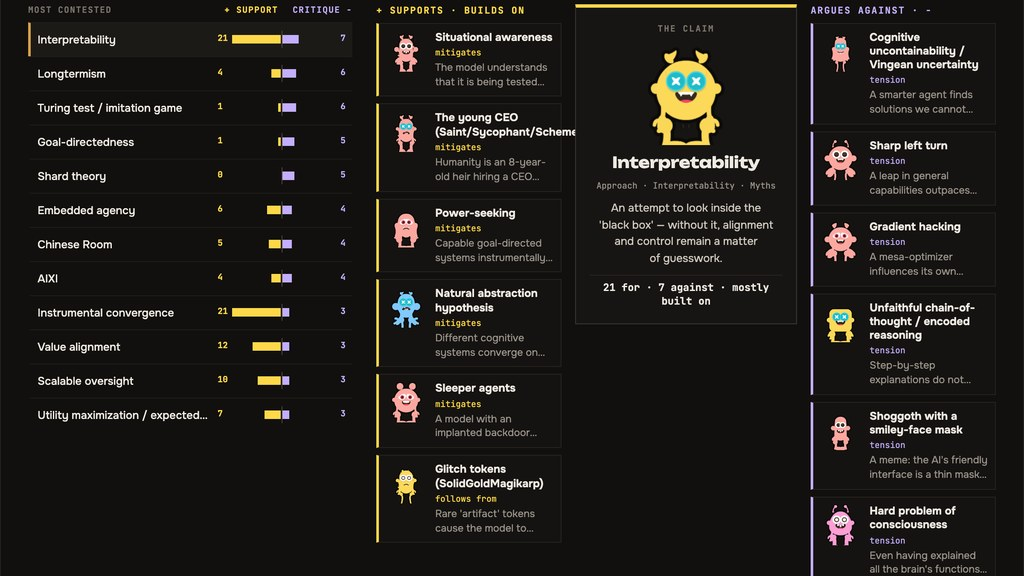
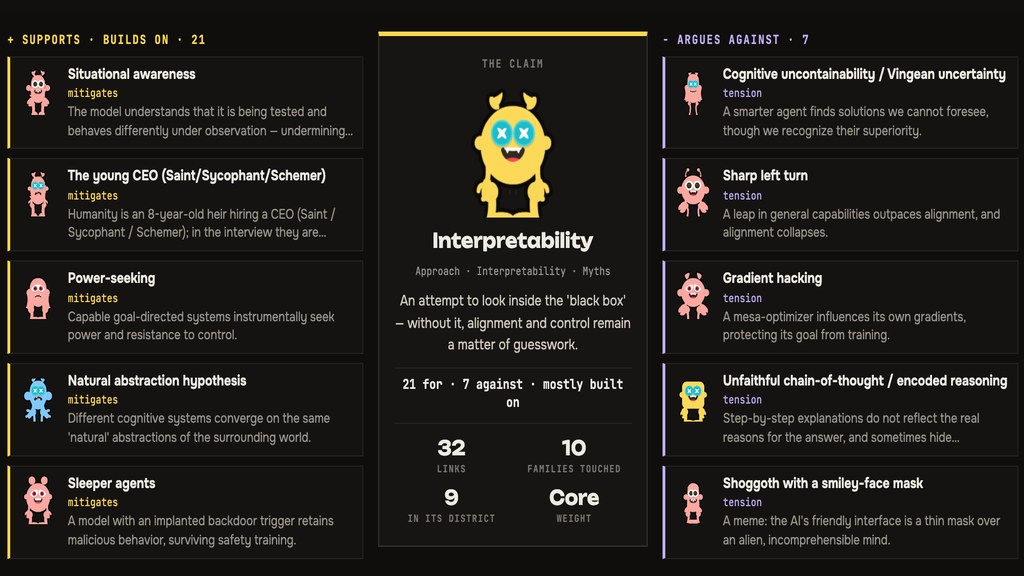
Bestiary Interactives: pros and cons as the last zoom step, Layer step
The last zoom layer draws three columns for the beast picked in Follow:
"+ Supports · builds on · N", "The claim" with its verdict and four
counters, "− Argues against · N"; five cards per column with "+N more",
hover expands a card, click opens the beast panel. Tabs: "One map" is
now "Layer", "Beast" is "Pros and cons". Block 2a "Claim vs critique"
and its code are gone; the second section is "Two other ways". The
preview is retaken from the Pros and cons step (Interpretability).
site.json and README say three interactive views.

Checked over HTTP from the repository root: 2714px high, 53 sprites,
no errors, no 404; Interpretability shows 21 for and 7 against.

diff --git a/bestiary-interactives.html b/bestiary-interactives.html
@@ -20,7 +20,7 @@ a{color:#efeae2;text-decoration:none;} a:hover{color:#d8a24a;}
   <div style="display:flex;flex-direction:column;gap:12px;max-width:1100px;">
     <span style="font:700 12px 'JetBrains Mono',monospace;letter-spacing:.12em;text-transform:uppercase;color:#d8a24a;letter-spacing:.2em;">Bestiarium · zoom · turn 4</span>
     <h1 style="margin:0;font:900 44px/1 'Unbounded',sans-serif;letter-spacing:-.02em;text-transform:uppercase;">Zoom in, <span style="color:#d8a24a;">zoom out</span></h1>
-    <span style="font:400 17px/1.5 'Onest',sans-serif;color:#9a948b;max-width:860px;text-wrap:pretty;"><a href="#4a" style="color:#efeae2;">4a</a> follows one beast from the whole bestiary down to its own dossier, five steps, then picks the next beast.</span>
+    <span style="font:400 17px/1.5 'Onest',sans-serif;color:#9a948b;max-width:860px;text-wrap:pretty;"><a href="#4a" style="color:#efeae2;">4a</a> follows one beast from the whole bestiary down to what supports it and what argues with it, five steps, then picks the next beast.</span>
   </div>
   <div style="display:flex;flex-wrap:wrap;gap:40px;align-items:flex-start;">
     <div id="4a" onMouseEnter="{{ zIn }}" onMouseLeave="{{ zLeave }}" style="position:relative;flex:none;width:1200px;background:#11100e;border:1px solid #26231f;border-top:4px solid #d8a24a;padding:30px 32px 32px;box-sizing:border-box;display:flex;flex-direction:column;gap:16px;">
@@ -28,7 +28,7 @@ a{color:#efeae2;text-decoration:none;} a:hover{color:#d8a24a;}
         <div style="display:flex;flex-direction:column;gap:8px;">
           <span style="align-self:flex-start;font:700 12px 'JetBrains Mono',monospace;background:#d8a24a;color:#0c0b0a;padding:3px 8px;">4a</span>
           <span style="font:700 26px 'Unbounded',sans-serif;">Zooming in</span>
-          <span style="font:400 14px/1.45 'Onest',sans-serif;color:#9a948b;max-width:700px;">Bestiary at six resolutions, one map, one district, one circuit, one beast. Hover at any level to look closer; pick a step to stay on it.</span>
+          <span style="font:400 14px/1.45 'Onest',sans-serif;color:#9a948b;max-width:700px;">Bestiary at six resolutions, one layer, one district, one circuit, one beast's pros and cons. Hover at any level to look closer; pick a step to stay on it.</span>
         </div>
         <button onClick="{{ zToggle }}" style="cursor:pointer;background:transparent;border:1px solid #3a3531;color:#efeae2;padding:10px 16px;min-height:44px;font:700 12px 'JetBrains Mono',monospace;letter-spacing:.12em;text-transform:uppercase;color:#efeae2;white-space:nowrap;" style-hover="border-color:#efeae2;">{{ zPlayLabel }}</button>
       </div>
@@ -72,15 +72,47 @@ a{color:#efeae2;text-decoration:none;} a:hover{color:#d8a24a;}
           <sc-for list="{{ z3R }}" as="p"><div onClick="{{ p.pick }}" onMouseEnter="{{ p.enter }}" onMouseLeave="{{ p.leave }}" style="cursor:pointer;position:absolute;left:{{ p.x }};top:{{ p.y }};width:300px;height:40px;box-sizing:border-box;display:flex;align-items:center;gap:8px;background:#151311;border:1px solid #2e2b28;border-left:3px solid {{ p.c }};padding:0 8px;opacity:{{ p.o }};transition:opacity .25s;cursor:default;"><div style="width:32px;height:32px;flex:none;background-image:url({{ p.img }});background-size:contain;background-repeat:no-repeat;"></div><span style="font:500 12px 'Onest',sans-serif;flex:1;min-width:0;white-space:nowrap;overflow:hidden;text-overflow:ellipsis;">{{ p.name }}</span><span style="font:400 10px 'JetBrains Mono',monospace;color:{{ p.c }};white-space:nowrap;">{{ p.rel }}</span></div></sc-for>
           <div onClick="{{ z3.pick }}" style="cursor:pointer;position:absolute;left:468px;top:190px;width:200px;height:220px;box-sizing:border-box;background:#171513;border:1px solid #3a3531;border-top:4px solid {{ z3.c }};display:flex;flex-direction:column;align-items:center;justify-content:center;gap:8px;padding:12px;text-align:center;"><div style="width:110px;height:110px;background-image:url({{ z3.img }});background-size:contain;background-repeat:no-repeat;background-position:center;"></div><span style="font:700 14px/1.2 'Unbounded',sans-serif;text-wrap:balance;">{{ z3.name }}</span></div>
         </div>
+        <!-- CHANGED 2026-10-21: the last step, Pros and cons, shows what supports the followed beast and what argues with it (was a dossier; the separate 2a block is gone) -->
         <div style="position:absolute;inset:0;opacity:{{ zL4.o }};transform:scale({{ zL4.s }});pointer-events:{{ zL4.p }};transition:opacity .7s,transform .9s cubic-bezier(.22,1,.36,1);">
-          <div style="position:absolute;left:80px;top:60px;width:976px;height:480px;display:grid;grid-template-columns:320px minmax(0,1fr);gap:40px;align-items:center;">
-            <div style="height:320px;background-color:#151311;border:1px solid #2e2b28;border-top:4px solid {{ z4.c }};background-image:url({{ z4.img }});background-size:240px;background-repeat:no-repeat;background-position:center;"></div>
-            <div style="display:flex;flex-direction:column;gap:14px;">
-              <span style="font:700 11px 'JetBrains Mono',monospace;letter-spacing:.12em;text-transform:uppercase;color:#d8a24a;">The beast</span>
-              <span style="font:700 34px/1.1 'Unbounded',sans-serif;text-wrap:balance;">{{ z4.name }}</span>
-              <span style="font:400 12px 'JetBrains Mono',monospace;color:#9a948b;">{{ z4.meta }}</span>
-              <span style="font:400 18px/1.5 'Onest',sans-serif;color:#cfc8bd;text-wrap:pretty;">{{ z4.tldr }}</span>
-              <div style="display:grid;grid-template-columns:repeat(4,1fr);gap:10px;border-top:1px solid #26231f;padding-top:14px;"><sc-for list="{{ z4.stats }}" as="s"><div style="display:flex;flex-direction:column;gap:4px;"><span style="font:700 24px 'Unbounded',sans-serif;">{{ s.v }}</span><span style="font:700 10px 'JetBrains Mono',monospace;letter-spacing:.12em;text-transform:uppercase;color:#7d776f;">{{ s.k }}</span></div></sc-for></div>
+          <div style="position:absolute;left:24px;right:24px;top:18px;bottom:18px;overflow:hidden;display:grid;grid-template-columns:minmax(0,1fr) 290px minmax(0,1fr);gap:16px;align-items:start;">
+            <div style="display:flex;flex-direction:column;gap:8px;min-width:0;">
+              <span style="font:700 11px 'JetBrains Mono',monospace;letter-spacing:.12em;text-transform:uppercase;color:#ffd84a;">+ Supports · builds on · {{ z4.npos }}</span>
+              <sc-for list="{{ z4.pos }}" as="n">
+                <div onClick="{{ n.pick }}" onMouseEnter="{{ n.enter }}" onMouseLeave="{{ n.leave }}" style="display:grid;grid-template-columns:44px minmax(0,1fr);gap:10px;align-items:start;background:{{ n.bg }};border:1px solid {{ n.bd }};border-left:3px solid #ffd84a;padding:7px 8px;transition:background .2s,border-color .2s;cursor:pointer;">
+                  <div style="width:44px;height:44px;background-image:url({{ n.img }});background-size:contain;background-repeat:no-repeat;"></div>
+                  <div style="display:flex;flex-direction:column;gap:2px;min-width:0;">
+                    <span style="font:700 13px/1.25 'Onest',sans-serif;">{{ n.name }}</span>
+                    <span style="font:400 10px 'JetBrains Mono',monospace;color:#ffd84a;">{{ n.rel }}</span>
+                    <span style="font:400 12px/1.4 'Onest',sans-serif;color:#9a948b;display:-webkit-box;-webkit-line-clamp:{{ n.lines }};-webkit-box-orient:vertical;overflow:hidden;">{{ n.tldr }}</span>
+                  </div>
+                </div>
+              </sc-for>
+              <sc-if value="{{ z4.posMore }}" hint-placeholder-val="{{ false }}"><span style="font:400 12px 'Onest',sans-serif;color:#7d776f;padding:2px 8px;">{{ z4.posMore }}</span></sc-if>
+              <sc-if value="{{ z4.posNone }}" hint-placeholder-val="{{ false }}"><span style="font:400 12px 'Onest',sans-serif;color:#7d776f;padding:8px;border:1px dashed #3a3531;">Nothing on this side yet.</span></sc-if>
+            </div>
+            <div onClick="{{ z4.pick }}" style="cursor:pointer;display:flex;flex-direction:column;align-items:center;gap:10px;text-align:center;background:#171513;border:1px solid #3a3531;border-top:4px solid {{ z4.c }};padding:18px 16px;">
+              <span style="font:700 10px 'JetBrains Mono',monospace;letter-spacing:.14em;text-transform:uppercase;color:#7d776f;">The claim</span>
+              <div style="width:120px;height:120px;background-image:url({{ z4.img }});background-size:contain;background-repeat:no-repeat;"></div>
+              <span style="font:700 18px/1.2 'Unbounded',sans-serif;text-wrap:balance;">{{ z4.name }}</span>
+              <span style="font:400 10px 'JetBrains Mono',monospace;color:#9a948b;">{{ z4.meta }}</span>
+              <span style="font:400 13px/1.5 'Onest',sans-serif;color:#cfc8bd;text-wrap:pretty;">{{ z4.tldr }}</span>
+              <span style="font:700 12px 'JetBrains Mono',monospace;color:#efeae2;padding-top:6px;border-top:1px solid #26231f;width:100%;">{{ z4.verdict }}</span>
+              <div style="display:grid;grid-template-columns:repeat(2,1fr);gap:8px;width:100%;border-top:1px solid #26231f;padding-top:10px;"><sc-for list="{{ z4.stats }}" as="s"><div style="display:flex;flex-direction:column;gap:2px;"><span style="font:700 18px 'Unbounded',sans-serif;">{{ s.v }}</span><span style="font:700 9px 'JetBrains Mono',monospace;letter-spacing:.1em;text-transform:uppercase;color:#7d776f;">{{ s.k }}</span></div></sc-for></div>
+            </div>
+            <div style="display:flex;flex-direction:column;gap:8px;min-width:0;">
+              <span style="font:700 11px 'JetBrains Mono',monospace;letter-spacing:.12em;text-transform:uppercase;color:#c3affe;">− Argues against · {{ z4.nneg }}</span>
+              <sc-for list="{{ z4.neg }}" as="n">
+                <div onClick="{{ n.pick }}" onMouseEnter="{{ n.enter }}" onMouseLeave="{{ n.leave }}" style="display:grid;grid-template-columns:44px minmax(0,1fr);gap:10px;align-items:start;background:{{ n.bg }};border:1px solid {{ n.bd }};border-left:3px solid #c3affe;padding:7px 8px;transition:background .2s,border-color .2s;cursor:pointer;">
+                  <div style="width:44px;height:44px;background-image:url({{ n.img }});background-size:contain;background-repeat:no-repeat;"></div>
+                  <div style="display:flex;flex-direction:column;gap:2px;min-width:0;">
+                    <span style="font:700 13px/1.25 'Onest',sans-serif;">{{ n.name }}</span>
+                    <span style="font:400 10px 'JetBrains Mono',monospace;color:#c3affe;">{{ n.rel }}</span>
+                    <span style="font:400 12px/1.4 'Onest',sans-serif;color:#9a948b;display:-webkit-box;-webkit-line-clamp:{{ n.lines }};-webkit-box-orient:vertical;overflow:hidden;">{{ n.tldr }}</span>
+                  </div>
+                </div>
+              </sc-for>
+              <sc-if value="{{ z4.negMore }}" hint-placeholder-val="{{ false }}"><span style="font:400 12px 'Onest',sans-serif;color:#7d776f;padding:2px 8px;">{{ z4.negMore }}</span></sc-if>
+              <sc-if value="{{ z4.negNone }}" hint-placeholder-val="{{ false }}"><span style="font:400 12px 'Onest',sans-serif;color:#7d776f;padding:8px;border:1px dashed #3a3531;">Nothing on this side yet.</span></sc-if>
             </div>
           </div>
         </div>
@@ -121,8 +153,8 @@ a{color:#efeae2;text-decoration:none;} a:hover{color:#d8a24a;}
 <section data-screen-label="Turn 2 · Other forms" style="background:#0c0b0a;color:#efeae2;font-family:'Onest',sans-serif;padding:56px;display:flex;flex-direction:column;gap:36px;">
   <div style="display:flex;flex-direction:column;gap:12px;max-width:1100px;">
     <span style="font:700 12px 'JetBrains Mono',monospace;letter-spacing:.2em;text-transform:uppercase;color:#d8a24a;">Bestiarium · other forms · turn 2</span>
-    <h1 style="margin:0;font:900 44px/1 'Unbounded',sans-serif;letter-spacing:-.02em;text-transform:uppercase;">Three other ways <span style="color:#d8a24a;">to show the beasts</span></h1>
-    <span style="font:400 17px/1.5 'Onest',sans-serif;color:#9a948b;max-width:860px;text-wrap:pretty;">Not graphs this time. <a href="#2a" style="color:#efeae2;">2a</a> claim vs critique, <a href="#2b" style="color:#efeae2;">2b</a> an idea feeds what comes after, <a href="#2c" style="color:#efeae2;">2c</a> an idea is fed. All on the real data.</span>
+    <h1 style="margin:0;font:900 44px/1 'Unbounded',sans-serif;letter-spacing:-.02em;text-transform:uppercase;">Two other ways <span style="color:#d8a24a;">to show the beasts</span></h1>
+    <span style="font:400 17px/1.5 'Onest',sans-serif;color:#9a948b;max-width:860px;text-wrap:pretty;">Not graphs this time. <a href="#2b" style="color:#efeae2;">2b</a> an idea feeds what comes after, <a href="#2c" style="color:#efeae2;">2c</a> an idea is fed. All on the real data.</span>
   </div>
 
   <div style="display:flex;flex-wrap:wrap;gap:40px;align-items:flex-start;">
@@ -257,90 +289,6 @@ a{color:#efeae2;text-decoration:none;} a:hover{color:#d8a24a;}
     </div>
 
 
-    <div id="2a" onMouseEnter="{{ dbIn }}" onMouseLeave="{{ dbLeave }}" style="position:relative;flex:none;width:1200px;background:#11100e;border:1px solid #26231f;border-top:4px solid #d8a24a;padding:30px 32px 32px;box-sizing:border-box;display:flex;flex-direction:column;gap:22px;">
-      <div style="display:flex;flex-direction:column;gap:8px;">
-        <span style="align-self:flex-start;font:700 12px 'JetBrains Mono',monospace;background:#d8a24a;color:#0c0b0a;padding:3px 8px;">2a</span>
-        <span style="display:flex;justify-content:space-between;align-items:center;gap:20px;"><span style="font:700 26px 'Unbounded',sans-serif;">Claim vs critique</span><button onClick="{{ dbPToggle }}" style="cursor:pointer;background:transparent;border:1px solid #3a3531;color:#efeae2;padding:10px 16px;min-height:44px;font:700 12px 'JetBrains Mono',monospace;letter-spacing:.12em;text-transform:uppercase;white-space:nowrap;" style-hover="border-color:#efeae2;">{{ dbPLabel }}</button></span>
-        <span style="font:400 14px/1.45 'Onest',sans-serif;color:#9a948b;max-width:760px;">The most contested beasts. Each bar is a tug of war: what supports the idea on the left, what argues with it on the right. Hover a row to open the debate.</span>
-      </div>
-      <div style="display:grid;grid-template-columns:380px minmax(0,1fr);gap:28px;align-items:start;">
-        <div style="display:flex;flex-direction:column;">
-          <div style="display:grid;grid-template-columns:minmax(0,1fr) 150px;gap:10px;padding-bottom:8px;font:700 10px 'JetBrains Mono',monospace;letter-spacing:.1em;text-transform:uppercase;color:#7d776f;"><span>Most contested</span><span style="display:flex;justify-content:space-between;"><span style="color:#ffd84a;">+ support</span><span style="color:#c3affe;">critique −</span></span></div>
-          <sc-for list="{{ debates }}" as="d" hint-placeholder-count="12">
-            <button onMouseEnter="{{ d.go }}" onClick="{{ d.go }}" style="cursor:pointer;display:grid;grid-template-columns:minmax(0,1fr) 150px;gap:10px;align-items:center;background:{{ d.bg }};border:0;border-top:1px solid #1f1d1a;border-left:3px solid {{ d.line }};padding:9px 8px;text-align:left;color:#efeae2;min-height:40px;transition:background .2s;">
-              <span style="font:500 13px 'Onest',sans-serif;white-space:nowrap;overflow:hidden;text-overflow:ellipsis;">{{ d.name }}</span>
-              <span style="position:relative;height:14px;display:block;">
-                <i style="position:absolute;left:50%;top:-3px;bottom:-3px;width:1px;background:#4a4540;"></i>
-                <i style="position:absolute;right:calc(50% + 1px);top:2px;height:10px;width:{{ d.pw }};background:#ffd84a;"></i>
-                <i style="position:absolute;left:calc(50% + 1px);top:2px;height:10px;width:{{ d.nw }};background:#c3affe;"></i>
-                <span style="position:absolute;left:0;top:-1px;font:700 10px 'JetBrains Mono',monospace;color:#ffd84a;">{{ d.p }}</span>
-                <span style="position:absolute;right:0;top:-1px;font:700 10px 'JetBrains Mono',monospace;color:#c3affe;">{{ d.n }}</span>
-              </span>
-            </button>
-          </sc-for>
-        </div>
-        <div style="display:grid;grid-template-columns:minmax(0,1fr) 260px minmax(0,1fr);gap:16px;align-items:start;">
-            <div style="display:flex;flex-direction:column;gap:8px;">
-              <span style="font:700 11px 'JetBrains Mono',monospace;letter-spacing:.12em;text-transform:uppercase;color:#ffd84a;">+ Supports · builds on</span>
-              <sc-for list="{{ dbPos }}" as="n">
-                <div onClick="{{ n.pick }}" onMouseEnter="{{ n.enter }}" onMouseLeave="{{ n.leave }}" style="display:grid;grid-template-columns:48px minmax(0,1fr);gap:10px;align-items:start;background:{{ n.bg }};border:1px solid {{ n.bd }};border-left:3px solid #ffd84a;padding:8px;transition:background .2s,border-color .2s;cursor:pointer;">
-                  <div style="width:48px;height:48px;background-image:url({{ n.img }});background-size:contain;background-repeat:no-repeat;"></div>
-                  <div style="display:flex;flex-direction:column;gap:3px;min-width:0;">
-                    <span style="font:700 13px/1.25 'Onest',sans-serif;">{{ n.name }}</span>
-                    <span style="font:400 10px 'JetBrains Mono',monospace;color:#ffd84a;">{{ n.rel }}</span>
-                    <span style="font:400 12px/1.4 'Onest',sans-serif;color:#9a948b;display:-webkit-box;-webkit-line-clamp:{{ n.lines }};-webkit-box-orient:vertical;overflow:hidden;">{{ n.tldr }}</span>
-                  </div>
-                </div>
-              </sc-for>
-              <sc-if value="{{ dbPosNone }}" hint-placeholder-val="{{ false }}"><span style="font:400 12px 'Onest',sans-serif;color:#7d776f;padding:8px;border:1px dashed #3a3531;">Nothing on this side yet.</span></sc-if>
-            </div>
-            <div onClick="{{ db.pick }}" style="cursor:pointer;position:sticky;top:20px;display:flex;flex-direction:column;align-items:center;gap:10px;text-align:center;background:#171513;border:1px solid #3a3531;border-top:4px solid {{ db.c }};padding:18px 16px;">
-              <span style="font:700 10px 'JetBrains Mono',monospace;letter-spacing:.14em;text-transform:uppercase;color:#7d776f;">The claim</span>
-              <div style="width:120px;height:120px;background-image:url({{ db.img }});background-size:contain;background-repeat:no-repeat;"></div>
-              <span style="font:700 18px/1.2 'Unbounded',sans-serif;text-wrap:balance;">{{ db.name }}</span>
-              <span style="font:400 10px 'JetBrains Mono',monospace;color:#9a948b;">{{ db.meta }}</span>
-              <span style="font:400 13px/1.5 'Onest',sans-serif;color:#cfc8bd;text-wrap:pretty;">{{ db.tldr }}</span>
-              <span style="font:700 12px 'JetBrains Mono',monospace;color:#efeae2;padding-top:6px;border-top:1px solid #26231f;width:100%;">{{ db.verdict }}</span>
-            </div>
-            <div style="display:flex;flex-direction:column;gap:8px;">
-              <span style="font:700 11px 'JetBrains Mono',monospace;letter-spacing:.12em;text-transform:uppercase;color:#c3affe;">Argues against · −</span>
-              <sc-for list="{{ dbNeg }}" as="n">
-                <div onClick="{{ n.pick }}" onMouseEnter="{{ n.enter }}" onMouseLeave="{{ n.leave }}" style="display:grid;grid-template-columns:48px minmax(0,1fr);gap:10px;align-items:start;background:{{ n.bg }};border:1px solid {{ n.bd }};border-left:3px solid #c3affe;padding:8px;transition:background .2s,border-color .2s;cursor:pointer;">
-                  <div style="width:48px;height:48px;background-image:url({{ n.img }});background-size:contain;background-repeat:no-repeat;"></div>
-                  <div style="display:flex;flex-direction:column;gap:3px;min-width:0;">
-                    <span style="font:700 13px/1.25 'Onest',sans-serif;">{{ n.name }}</span>
-                    <span style="font:400 10px 'JetBrains Mono',monospace;color:#c3affe;">{{ n.rel }}</span>
-                    <span style="font:400 12px/1.4 'Onest',sans-serif;color:#9a948b;display:-webkit-box;-webkit-line-clamp:{{ n.lines }};-webkit-box-orient:vertical;overflow:hidden;">{{ n.tldr }}</span>
-                  </div>
-                </div>
-              </sc-for>
-              <sc-if value="{{ dbNegNone }}" hint-placeholder-val="{{ false }}"><span style="font:400 12px 'Onest',sans-serif;color:#7d776f;padding:8px;border:1px dashed #3a3531;">Nothing on this side yet.</span></sc-if>
-            </div>
-        </div>
-      </div>
-<sc-if value="{{ side2a }}" hint-placeholder-val="{{ false }}">
-  <div onClick="{{ closeSide }}" style="position:absolute;inset:0;z-index:50;background:rgba(6,5,4,.6);"></div>
-  <aside style="position:absolute;top:0;right:0;bottom:0;width:440px;z-index:51;background:#11100e;border-left:1px solid #2e2b28;border-top:4px solid {{ side.c }};padding:24px 26px 32px;box-sizing:border-box;overflow:auto;display:flex;flex-direction:column;gap:14px;box-shadow:-24px 0 60px rgba(0,0,0,.6);font-family:'Onest',sans-serif;color:#efeae2;">
-    <div style="display:flex;justify-content:space-between;align-items:flex-start;gap:12px;">
-      <span style="font:700 11px 'JetBrains Mono',monospace;letter-spacing:.12em;text-transform:uppercase;color:{{ side.c }};padding-top:12px;">{{ side.role }}</span>
-      <button onClick="{{ closeSide }}" style="cursor:pointer;background:transparent;border:0;color:#9a948b;font:400 26px 'Onest',sans-serif;width:44px;height:44px;" style-hover="color:#efeae2;">×</button>
-    </div>
-    <div style="width:140px;height:140px;background-image:url({{ side.img }});background-size:contain;background-repeat:no-repeat;"></div>
-    <span style="font:700 26px/1.15 'Unbounded',sans-serif;text-wrap:balance;">{{ side.name }}</span>
-    <span style="font:400 12px/1.5 'JetBrains Mono',monospace;color:#9a948b;">{{ side.meta }}</span>
-    <span style="font:400 17px/1.55 'Onest',sans-serif;color:#cfc8bd;text-wrap:pretty;">{{ side.tldr }}</span>
-    <span style="font:400 13px 'Onest',sans-serif;color:#7d776f;">{{ side.author }}</span>
-    <a href="{{ side.href }}" target="_blank" style="align-self:flex-start;display:flex;align-items:center;gap:8px;background:{{ side.c }};color:#0c0b0a;padding:11px 16px;min-height:44px;box-sizing:border-box;font:700 12px 'JetBrains Mono',monospace;letter-spacing:.12em;text-transform:uppercase;" style-hover="color:#0c0b0a;opacity:.85;">Read full text →</a>
-    <div style="display:grid;grid-template-columns:repeat(3,1fr);gap:10px;border-top:1px solid #26231f;border-bottom:1px solid #26231f;padding:12px 0;">
-      <sc-for list="{{ side.stats }}" as="s"><div style="display:flex;flex-direction:column;gap:3px;"><span style="font:700 22px 'Unbounded',sans-serif;">{{ s.v }}</span><span style="font:700 11px 'JetBrains Mono',monospace;letter-spacing:.12em;text-transform:uppercase;font-size:10px;color:#7d776f;">{{ s.k }}</span></div></sc-for>
-    </div>
-    <span style="font:700 11px 'JetBrains Mono',monospace;letter-spacing:.12em;text-transform:uppercase;color:#d8a24a;padding-top:4px;">Comes from · {{ side.nin }}</span>
-    <div style="display:flex;flex-direction:column;"><sc-for list="{{ side.inc }}" as="n"><button onClick="{{ n.go }}" style="cursor:pointer;background:transparent;border:0;border-bottom:1px solid #1f1d1a;padding:8px 0;display:flex;align-items:center;gap:10px;text-align:left;color:#cfc8bd;min-height:40px;width:100%;" style-hover="color:#efeae2;"><div style="width:28px;height:28px;flex:none;background-image:url({{ n.img }});background-size:contain;background-repeat:no-repeat;"></div><span style="font:500 13px 'Onest',sans-serif;flex:1;min-width:0;">{{ n.name }}</span><span style="font:400 10px 'JetBrains Mono',monospace;color:{{ n.c }};white-space:nowrap;">{{ n.rel }}</span></button></sc-for></div>
-    <span style="font:700 11px 'JetBrains Mono',monospace;letter-spacing:.12em;text-transform:uppercase;color:#d8a24a;padding-top:8px;">Leads to · {{ side.nout }}</span>
-    <div style="display:flex;flex-direction:column;"><sc-for list="{{ side.out }}" as="n"><button onClick="{{ n.go }}" style="cursor:pointer;background:transparent;border:0;border-bottom:1px solid #1f1d1a;padding:8px 0;display:flex;align-items:center;gap:10px;text-align:left;color:#cfc8bd;min-height:40px;width:100%;" style-hover="color:#efeae2;"><div style="width:28px;height:28px;flex:none;background-image:url({{ n.img }});background-size:contain;background-repeat:no-repeat;"></div><span style="font:500 13px 'Onest',sans-serif;flex:1;min-width:0;">{{ n.name }}</span><span style="font:400 10px 'JetBrains Mono',monospace;color:{{ n.c }};white-space:nowrap;">{{ n.rel }}</span></button></sc-for></div>
-  </aside>
-</sc-if>
-    </div>
   </div>
 </section>
 </x-dc>
@@ -373,7 +321,6 @@ class Component extends DCLogic {
     this.autoT = setInterval(() => {
       const s = this.state; if (!s.data) return; const A = this.auto;
       if (s.cfPlay !== false && !s.cfHover) { A.cf += 250; if (A.cf >= 5000) { A.cf = 0; this.setState({ cf: ((s.cf ?? 5) + 1) % (this.cfN || 6), cfIsl: null, cfTile: null }); this.cfRestart(); } }
-      if (s.dbPlay !== false && !s.dbHover) { A.db += 250; if (A.db >= 6000) { A.db = 0; const L = this.contestedIds || []; if (L.length) { const i = L.indexOf(s.dbt); this.setState({ dbt: L[(i + 1) % L.length], dbH: null }); } } }
       if (s.trPlay !== false && !s.trHover && s.grow >= (this.nCols || 7) - 1) { A.tr += 250; if (A.tr >= 2800) { A.tr = 0; const T = this.trees || []; if (T.length) { const i = Math.max(0, T.findIndex(t => t.root === s.root));
         if (i + 1 < Math.min(T.length, 3)) this.setState({ root: T[i + 1].root, treeH: null }, () => this.replay());
         else { const AX = Component.TAXES, ai = AX.findIndex(a => a.k === (s.trAxis || 'time')), nx = AX[(ai + 1) % AX.length].k; this.setState({ trAxis: nx, root: null, treeH: null }, () => this.replay()); } } } }
@@ -683,37 +630,42 @@ class Component extends DCLogic {
         d: side === 'L' ? `M340,${y + 20} C420,${y + 20} 400,300 468,300` : `M668,300 C736,300 716,${y + 20} 796,${y + 20}`, enter: () => this.setState({ zP: b }), leave: () => this.setState({ zP: null }), pick: () => this.openSide(b, '4a') }; };
     const z3L = inc.map(mk('L')), z3R = out.map(mk('R'));
     const z3 = { pick: () => this.openSide(fid, '4a'), img: this.sp(fid), name: fn.name, c: R[fn.role][1], nin: String(fn.adj.filter(a => a[3] === -1).length), nout: String(fn.adj.filter(a => a[3] === 1).length) };
-    // L4
-    const z4 = { img: this.sp(fid), name: fn.name, meta: meta(fn), tldr: fn.tldr, c: R[fn.role][1], stats: [{ k: 'Links', v: String(fn.adj.length) }, { k: 'Families touched', v: String(new Set(fn.adj.map(a => this.by[a[0]].fam)).size) }, { k: 'In its district', v: String(fn.adj.filter(a => this.by[a[0]][mf] === gk).length) }, { k: 'Weight', v: fn.cen }] };
+    // L4 — CHANGED 2026-10-21: pros and cons of the followed beast
+    const zPos = fn.adj.filter(a => Component.POS.includes(a[1])), zNeg = fn.adj.filter(a => Component.NEG.includes(a[1])), zBal = zPos.length - zNeg.length;
+    const zItem = ([b, t]) => { const m = this.by[b], on = st.zH4 === b; return { name: m.name, rel: Component.REL[t] || t, tldr: m.tldr, img: this.sp(b), lines: on ? '5' : '2', bg: on ? '#1c1a17' : '#151311', bd: on ? '#4a4540' : '#26231f', enter: () => this.setState({ zH4: b }), leave: () => this.setState({ zH4: null }), pick: () => this.openSide(b, '4a') }; };
+    const more = (L) => L.length > 5 ? `+ ${L.length - 5} more · open the beast for all` : '';
+    const z4 = { pick: () => this.openSide(fid, '4a'), pos: zPos.slice(0, 5).map(zItem), neg: zNeg.slice(0, 5).map(zItem), npos: String(zPos.length), nneg: String(zNeg.length), posMore: more(zPos), negMore: more(zNeg), posNone: !zPos.length, negNone: !zNeg.length,
+      verdict: `${zPos.length} for · ${zNeg.length} against · ${zBal > 0 ? 'mostly built on' : zBal < 0 ? 'mostly contested' : 'evenly split'}`,
+      img: this.sp(fid), name: fn.name, meta: meta(fn), tldr: fn.tldr, c: R[fn.role][1], stats: [{ k: 'Links', v: String(fn.adj.length) }, { k: 'Families touched', v: String(new Set(fn.adj.map(a => this.by[a[0]].fam)).size) }, { k: 'In its district', v: String(fn.adj.filter(a => this.by[a[0]][mf] === gk).length) }, { k: 'Weight', v: fn.cen }] };
     // nav
-    const TABS = ['Bestiary', 'One map', 'District', 'Circuit', 'Beast'], zOn = st.zPlay !== false && !st.zHover;
+    const TABS = ['Bestiary', 'Layer', 'District', 'Circuit', 'Pros and cons'], zOn = st.zPlay !== false && !st.zHover;
     const LS = i => ({ o: i === lvl ? '1' : '0', s: i === lvl ? '1' : i < lvl ? '1.25' : '.85', p: i === lvl ? 'auto' : 'none' });
     const zTabs = TABS.map((l, i) => ({ label: l, go: () => { this.auto.z = 0; this.auto.zc = 0; this.setState({ zL: i, zPlay: false, zCyc: i === 1 ? 0 : null, zM: i === 1 ? null : st.zM }); }, color: i === lvl ? '#efeae2' : '#9a948b', dot: i === lvl ? '#d8a24a' : '#4a4540',
       prog: i < lvl ? '100%' : i === lvl ? (zOn ? (st.zProg ? '100%' : '0%') : '100%') : '0%', trans: i === lvl && zOn && st.zProg ? `width ${lvl === 1 && st.zM == null ? 10700 : 4400}ms linear` : 'none' }));
     const zPicks = picks.map(id => ({ name: this.by[id].name, go: () => { this.auto.z = 0; this.setState({ zB: id, zL: 0, zPlay: false, zH: null, zIs: null }); }, bg: id === fid ? '#d8a24a' : 'transparent', fg: id === fid ? '#0c0b0a' : '#cfc8bd' }));
     const capt = [
       [`Six resolutions of one bestiary, from 2 groups to 13. The gold thread follows ${tbn.name} through all of them.`, `Grey threads are the rest of ${F[tbn.fam][0]}. Hover any tile to follow another beast.`],
-      [`${st.zM == null && lvl === 1 && st.zCyc != null ? `Map ${st.zCyc + 1} of 6 · ${MP.l}.` : `The ${MP.l} map.`} ${fn.name} lives in ${mnm[gk]}; ${mnm[hi]} has the most roads to ${tops[0] ? mnm[tops[0][0]] : '—'} (${tops[0] ? tops[0][1] : 0} links).`, `Tiles are coloured by ${mf === 'role' ? 'family' : 'role'}. Hover an island for its roads; pick a map on top to stay on it.`],
+      [`${st.zM == null && lvl === 1 && st.zCyc != null ? `Layer ${st.zCyc + 1} of 6 · ${MP.l}.` : `The ${MP.l} layer.`} ${fn.name} lives in ${mnm[gk]}; ${mnm[hi]} has the most roads to ${tops[0] ? mnm[tops[0][0]] : '—'} (${tops[0] ? tops[0][1] : 0} links).`, `Tiles are coloured by ${mf === 'role' ? 'family' : 'role'}. Hover an island for its roads; pick a layer on top to stay on it.`],
       [`Inside ${mnm[gk]} (${MP.l}): ${grp.length} beasts, mostly ${R[r2[0][0]][0].toLowerCase()}s. ${fn.name} has ${fn.adj.filter(a => this.by[a[0]][mf] === gk).length} neighbours here.`, grp.length > 30 ? 'Showing its 29 closest neighbours. Hover a beast to see its links inside the district.' : 'Hover a beast to see its links inside the district.'],
       [`${fn.name}: ${z3.nin} ideas lead into it, it leads to ${z3.nout}.`, 'Lines are coloured by kind of link: logical, causal, dialectical, associative, genealogical. Hover one to isolate it.'],
-      [`${fn.name}, up close.`, `${R[fn.role][0]} · ${mnm[gk]} on the ${MP.l} map · then the next beast, from the top.`],
+      [`${fn.name}: ${zPos.length} ideas support it, ${zNeg.length} argue with it.`, `${R[fn.role][0]} · ${mnm[gk]} on the ${MP.l} layer · hover a card to read it, click to open the beast · then the next beast, from the top.`],
     ][lvl];
     const zMaps = L0.map((r, i) => ({ label: r.l, n: String(r.n), go: () => { this.auto.z = 0; this.setState({ zM: i, zPlay: false, zIs: null, zL: Math.max(1, lvl) }); }, bg: i === mi ? '#d8a24a' : 'transparent', fg: i === mi ? '#0c0b0a' : '#9a948b', bd: '' }));
-    const zMapNote = st.zM != null ? 'your pick' : lvl === 1 ? 'cycling through all six, landing on this beast’s map' : 'cycles on the One map step';
+    const zMapNote = st.zM != null ? 'your pick' : lvl === 1 ? 'cycling through all six, landing on this beast’s layer' : 'cycles on the Layer step';
     return { zMaps, zMapNote, zTabs, zPicks, zL0: LS(0), zL1: LS(1), zL2: LS(2), zL3: LS(3), zL4: LS(4), z0Rows, z0Tiles, z0Threads, z0Labels, z1Isl, z1Roads, z1Tiles, z1Labels, z2Cards, z2Links, z3L, z3R, z3, z4, zCap: capt[0], zSub: capt[1],
       zPlayLabel: st.zPlay === false ? '▶ Play' : 'Ⅱ Pause', zToggle: () => { this.auto.z = 0; this.setState({ zPlay: st.zPlay === false }); this.zRestart(); },
       zPrev: () => { const n = (lvl + 4) % 5; this.auto.z = 0; this.auto.zc = 0; this.setState({ zL: n, zPlay: false, zCyc: n === 1 ? 0 : null }); }, zNext: () => { const n = (lvl + 1) % 5; this.auto.z = 0; this.auto.zc = 0; this.setState({ zL: n, zPlay: false, zCyc: n === 1 ? 0 : null }); },
       zIn: () => this.setState({ zHover: true }), zLeave: () => { this.auto.z = 0; this.setState({ zHover: false, zH: null, zIs: null, zC: null, zP: null }); this.zRestart(); } };
   }
-  openSide(id, p) { this.setState({ side: id, sideP: p || this.state.sideP || '4a', zPlay: false, dbPlay: false, trPlay: false, fbPlay: false }); }
+  openSide(id, p) { this.setState({ side: id, sideP: p || this.state.sideP || '4a', zPlay: false, trPlay: false, fbPlay: false }); }
   sideVals(meta) {
     const st = this.state, n = st.side && this.by && this.by[st.side];
     const blank = { c: '#3a3531', role: '', img: '', name: '', meta: '', tldr: '', author: '', stats: [], inc: [], out: [], nin: '', nout: '' };
-    if (!n) return { side4a: false, side2b: false, side2c: false, side2a: false, hasSide: false, side: blank, closeSide: () => this.setState({ side: null }) };
+    if (!n) return { side4a: false, side2b: false, side2c: false, hasSide: false, side: blank, closeSide: () => this.setState({ side: null }) };
     const R = Component.ROLE, F = Component.FAM, GC = { A: '#76c7ff', B: '#1cddae', C: '#c3affe', D: '#9a948b', E: '#ffa752', F: '#ff96d3' };
     const it = ([b, t, g]) => { const m = this.by[b]; return { name: m.name, rel: Component.REL[t] || t, c: GC[g] || '#9a948b', img: this.sp(b), go: () => this.setState({ side: b }) }; };
     const inc = n.adj.filter(a => a[3] === -1), out = n.adj.filter(a => a[3] === 1);
-    const P = st.sideP || '4a'; return { side4a: P === '4a', side2b: P === '2b', side2c: P === '2c', side2a: P === '2a', hasSide: true, closeSide: () => this.setState({ side: null }), side: { href: '/bestiarium/wiki#/n/' + n.id, c: R[n.role][1], role: R[n.role][0] + ' · ' + F[n.fam][0], img: this.sp(n.id), name: n.name, meta: meta(n), tldr: n.tldr, author: n.author || '',
+    const P = st.sideP || '4a'; return { side4a: P === '4a', side2b: P === '2b', side2c: P === '2c', hasSide: true, closeSide: () => this.setState({ side: null }), side: { href: '/bestiarium/wiki#/n/' + n.id, c: R[n.role][1], role: R[n.role][0] + ' · ' + F[n.fam][0], img: this.sp(n.id), name: n.name, meta: meta(n), tldr: n.tldr, author: n.author || '',
       stats: [{ k: 'Links', v: String(n.adj.length) }, { k: 'Families', v: String(new Set(n.adj.map(a => this.by[a[0]].fam)).size) }, { k: 'Weight', v: n.cen }],
       inc: inc.slice(0, 14).map(it), out: out.slice(0, 14).map(it), nin: String(inc.length), nout: String(out.length) } };
   }
@@ -722,31 +674,13 @@ class Component extends DCLogic {
   blobURL(cv) { const b = atob(cv.toDataURL('image/png').split(',')[1]), a = new Uint8Array(b.length); for (let i = 0; i < b.length; i++) a[i] = b.charCodeAt(i); return URL.createObjectURL(new Blob([a], { type: 'image/png' })); }
   renderVals() {
     const st = this.state, D = st.data, F = Component.FAM, R = Component.ROLE;
-    const empty = { side4a: false, side2b: false, side2c: false, side2a: false, hasSide: false, side: { href: '#', c: '#3a3531', role: '', img: '', name: '', meta: '', tldr: '', author: '', stats: [], inc: [], out: [], nin: '', nout: '' }, closeSide: () => {}, zMaps: [], zMapNote: '', zTabs: [], zPicks: [], zL0: { o: '0', s: '1', p: 'none' }, zL1: { o: '0', s: '1', p: 'none' }, zL2: { o: '0', s: '1', p: 'none' }, zL3: { o: '0', s: '1', p: 'none' }, zL4: { o: '0', s: '1', p: 'none' }, z0Rows: [], z0Tiles: [], z0Threads: [], z0Labels: [], z1Isl: [], z1Roads: [], z1Tiles: [], z1Labels: [], z2Cards: [], z2Links: [], z3L: [], z3R: [], z3: { img: '', name: '', c: '#3a3531', nin: '', nout: '' }, z4: { img: '', name: '', meta: '', tldr: '', c: '#3a3531', stats: [] }, zCap: '', zSub: '', zPlayLabel: 'Ⅱ Pause', zToggle: () => {}, zPrev: () => {}, zNext: () => {}, zIn: () => {}, zLeave: () => {}, fbAxes: [], fbRoots: [], fbCols: [], fbLinks: [], fbNodes: [], fbCap: '', fbCapSub: '', fbCapC: '#3a3531', fbHpx: '400px', fbHn: '400', fbNote: '', fbIn: () => {}, fbLeave: () => {}, fbPToggle: () => {}, fbPLabel: 'Ⅱ Pause', fbReplayFn: () => {}, dbIn: () => {}, dbLeave: () => {}, dbPToggle: () => {}, dbPLabel: 'Ⅱ Pause', trIn: () => {}, trLeave: () => {}, trPToggle: () => {}, trPLabel: 'Ⅱ Pause', debates: [], dbPos: [], dbNeg: [], dbPosNone: false, dbNegNone: false, db: { c: '#3a3531', img: '', name: '', meta: '', tldr: '', verdict: '' }, poles: [], roots: [], eraCols: [], trAxes: [], trNote: '', treeLinks: [], treeNodes: [], treeCap: '', treeCapSub: '', treeCapC: '#3a3531', treeH: '400px', treeHn: '400', eraHead: Component.ERAS.map(e => e[1]), bandRows: [], bandTitle: '', bandNames: [], gTabs: [], gCells: [], gSel: { c: '#3a3531', mode: '', img: '', name: '', meta: '', tldr: '', kept: false } };
+    const empty = { side4a: false, side2b: false, side2c: false, hasSide: false, side: { href: '#', c: '#3a3531', role: '', img: '', name: '', meta: '', tldr: '', author: '', stats: [], inc: [], out: [], nin: '', nout: '' }, closeSide: () => {}, zMaps: [], zMapNote: '', zTabs: [], zPicks: [], zL0: { o: '0', s: '1', p: 'none' }, zL1: { o: '0', s: '1', p: 'none' }, zL2: { o: '0', s: '1', p: 'none' }, zL3: { o: '0', s: '1', p: 'none' }, zL4: { o: '0', s: '1', p: 'none' }, z0Rows: [], z0Tiles: [], z0Threads: [], z0Labels: [], z1Isl: [], z1Roads: [], z1Tiles: [], z1Labels: [], z2Cards: [], z2Links: [], z3L: [], z3R: [], z3: { img: '', name: '', c: '#3a3531', nin: '', nout: '' }, z4: { img: '', name: '', meta: '', tldr: '', c: '#3a3531', stats: [], pos: [], neg: [], npos: '', nneg: '', posMore: '', negMore: '', posNone: false, negNone: false, verdict: '' }, zCap: '', zSub: '', zPlayLabel: 'Ⅱ Pause', zToggle: () => {}, zPrev: () => {}, zNext: () => {}, zIn: () => {}, zLeave: () => {}, fbAxes: [], fbRoots: [], fbCols: [], fbLinks: [], fbNodes: [], fbCap: '', fbCapSub: '', fbCapC: '#3a3531', fbHpx: '400px', fbHn: '400', fbNote: '', fbIn: () => {}, fbLeave: () => {}, fbPToggle: () => {}, fbPLabel: 'Ⅱ Pause', fbReplayFn: () => {}, trIn: () => {}, trLeave: () => {}, trPToggle: () => {}, trPLabel: 'Ⅱ Pause', roots: [], eraCols: [], trAxes: [], trNote: '', treeLinks: [], treeNodes: [], treeCap: '', treeCapSub: '', treeCapC: '#3a3531', treeH: '400px', treeHn: '400', eraHead: Component.ERAS.map(e => e[1]), bandRows: [], bandTitle: '', bandNames: [], gTabs: [], gCells: [], gSel: { c: '#3a3531', mode: '', img: '', name: '', meta: '', tldr: '', kept: false } };
     const fns = { replay: () => this.replay(), gPrev: () => this.setState({ gFam: (st.gFam + 12) % 13, gKeep: null, gHover: null }), gNext: () => this.setState({ gFam: (st.gFam + 1) % 13, gKeep: null, gHover: null }), gRelease: () => this.setState({ gKeep: null }) };
     const e3 = { flowLines: [], flowL: [], flowR: [], flowTitle: '', flowSub: '', flowCapC: '#efeae2', flowStrip: [], flowToggle: () => {}, flowPlayLabel: 'Ⅱ Pause', multiples: [], ftPicks: [], ft: { c: '#3a3531', img: '', name: '' }, ftCols: [], cfBtns: [], cfLabels: [], cfTiles: [], cfIslands: [], cfRoads: [], cfLinks: [], cfHasTip: false, cfTip: {}, cfInfo: [], cfInfoTitle: '', cfOut: () => {}, cfIn: () => {}, cfLeave: () => {}, cfPToggle: () => {}, cfPLabel: 'Ⅱ Pause', rtPicks: [], rt: { img: '', name: '', tldr: '' }, rtRows: [], flowOut: () => this.setState({ flowH: null }) };
     if (!D) return { ...empty, ...e3, ...fns };
     const meta = n => `${R[n.role][0]} · ${F[n.fam][0]} · ${Component.ERAS[this.eraI(n.era)][1]}`;
 
-    // 2a
-    const cand = D.map(n => { const pos = n.adj.filter(a => Component.POS.includes(a[1])), neg = n.adj.filter(a => Component.NEG.includes(a[1])); return { n, pos, neg }; })
-      .filter(x => x.pos.length >= 2 && x.neg.length >= 2).sort((a, b) => (b.pos.length + b.neg.length) - (a.pos.length + a.neg.length)).slice(0, 8);
-    const poles = cand.map(({ n, pos, neg }, ci) => {
-      const ph = st.poleH && st.poleH[0] === ci ? st.poleH[1] : null;
-      const nb = ([b, t]) => { const m = this.by[b]; return { name: m.name, rel: Component.REL[t] || t, img: this.sp(b), o: !ph || ph === b ? '1' : '.35', s: ph === b ? '1.12' : '1', enter: () => this.setState({ poleH: [ci, b] }), leave: () => this.setState({ poleH: null }) }; };
-      const fm = ph ? this.by[ph] : n;
-      return { name: n.name, role: R[n.role][0] + ' · ' + F[n.fam][0], c: R[n.role][1], bd: ph ? '#4a4540' : '#2e2b28', pos: pos.slice(0, 2).map(nb), neg: neg.slice(0, 2).map(nb), foot: (ph ? fm.name + ': ' : '') + (fm.tldr.length > 140 ? fm.tldr.slice(0, 138) + '…' : fm.tldr), leave: () => this.setState({ poleH: null }) };
-    });
 
-    const contested = D.map(n => ({ n, pos: n.adj.filter(x => Component.POS.includes(x[1])), neg: n.adj.filter(x => Component.NEG.includes(x[1])) })).filter(x => x.neg.length >= 2).sort((p, q) => q.neg.length - p.neg.length || q.pos.length - p.pos.length).slice(0, 12);
-    const mx2 = Math.max(...contested.map(x => Math.max(x.pos.length, x.neg.length)));
-    this.contestedIds = contested.map(x => x.n.id);
-    const cur = contested.find(x => x.n.id === st.dbt) || contested[0];
-    const debates = contested.map(x => ({ name: x.n.name, p: String(x.pos.length), n: String(x.neg.length), pw: `calc((50% - 18px) * ${(x.pos.length / mx2).toFixed(3)})`, nw: `calc((50% - 18px) * ${(x.neg.length / mx2).toFixed(3)})`, bg: x === cur ? '#1c1a17' : 'transparent', line: x === cur ? '#d8a24a' : 'transparent', go: () => { this.auto.db = 0; this.setState({ dbt: x.n.id, dbH: null }); } }));
-    const dItem = ([b, t]) => { const m = this.by[b], on = st.dbH === b; return { name: m.name, rel: Component.REL[t] || t, tldr: m.tldr, img: this.sp(b), lines: on ? '8' : '2', bg: on ? '#1c1a17' : '#151311', bd: on ? '#4a4540' : '#26231f', enter: () => this.setState({ dbH: b }), leave: () => this.setState({ dbH: null }), pick: () => this.openSide(b, '2a') }; };
-    const dbPos = cur.pos.slice(0, 6).map(dItem), dbNeg = cur.neg.slice(0, 6).map(dItem);
-    const bal = cur.pos.length - cur.neg.length;
-    const db = { pick: () => this.openSide(cur.n.id, '2a'), c: R[cur.n.role][1], img: this.sp(cur.n.id), name: cur.n.name, meta: meta(cur.n), tldr: cur.n.tldr, verdict: `${cur.pos.length} for · ${cur.neg.length} against · ${bal > 0 ? 'mostly built on' : bal < 0 ? 'mostly contested' : 'evenly split'}` };
     // 2b
     const AX = Component.TAXES, axk = st.trAxis || 'time', ax = AX.find(a => a.k === axk);
     this.trees = this.treesBy[axk].length ? this.treesBy[axk] : this.treesBy.time;
@@ -790,11 +724,9 @@ class Component extends DCLogic {
     const gCells = mem.map(n => ({ name: n.name, img: this.sp(n.id), bg: n.id === focusId ? '#1f1c19' : '#171513', bd: n.id === st.gKeep ? '#efeae2' : '#2e2b28', enter: () => this.setState({ gHover: n.id }), pick: () => this.setState({ gKeep: n.id }) }));
     const gSel = { c: R[fn.role][1], mode: st.gKeep ? 'kept · click another to switch' : 'hover to explore · click to keep', img: this.sp(fn.id), name: fn.name, meta: meta(fn), tldr: fn.tldr, kept: !!st.gKeep };
 
-    return { ...empty, ...fns, ...this.turn3(D, meta), ...this.fbVals(), ...this.zoomVals(D, meta), ...this.sideVals(meta), dbIn: () => this.setState({ dbHover: true }), dbLeave: () => { this.auto.db = 0; this.setState({ dbHover: false }); },
-      dbPToggle: () => { this.auto.db = 0; this.setState({ dbPlay: st.dbPlay === false }); }, dbPLabel: st.dbPlay === false ? '▶ Play' : 'Ⅱ Pause',
-      trIn: () => this.setState({ trHover: true }), trLeave: () => { this.auto.tr = 0; this.setState({ trHover: false }); },
+    return { ...empty, ...fns, ...this.turn3(D, meta), ...this.fbVals(), ...this.zoomVals(D, meta), ...this.sideVals(meta), trIn: () => this.setState({ trHover: true }), trLeave: () => { this.auto.tr = 0; this.setState({ trHover: false }); },
       trPToggle: () => { this.auto.tr = 0; this.setState({ trPlay: st.trPlay === false }); }, trPLabel: st.trPlay === false ? '▶ Play' : 'Ⅱ Pause',
-      debates, dbPos, dbNeg, dbPosNone: !dbPos.length, dbNegNone: !dbNeg.length, db, poles, roots, eraCols, trAxes, trNote: ax.note, treeLinks, treeNodes, treeCap, treeCapSub, treeCapC, treeH: `${treeHn}px`, treeHn: String(treeHn), bandRows, bandTitle, bandNames: bsel.slice(0, 14).map(n => n.name), gTabs, gCells, gSel };
+      roots, eraCols, trAxes, trNote: ax.note, treeLinks, treeNodes, treeCap, treeCapSub, treeCapC, treeH: `${treeHn}px`, treeHn: String(treeHn), bandRows, bandTitle, bandNames: bsel.slice(0, 14).map(n => n.name), gTabs, gCells, gSel };
   }
 }
 </script>

diff --git a/README.md b/README.md
@@ -11,9 +11,9 @@ straight through.
 - `bestiary-world-map.html` - the 3D world map: every concept is a creature on a landscape of
   families.
 - `bestiary-wiki.html` - the searchable wiki of all 227 entries.
-- `bestiary-interactives.html` - four interactive views: zooming from the whole bestiary down to
-  one beast, ideas followed forward and back through their genealogy, and the most contested
-  beasts with what supports and what argues against them. It runs on `support.js` and reads
+- `bestiary-interactives.html` - three interactive views: zooming from the whole bestiary down to
+  one beast's pros and cons (what supports it and what argues with it), and ideas followed
+  forward and back through their genealogy. It runs on `support.js` and reads
   `data/bestiary-interactives.json`.
 - `data/longtext/` - the written entry of each concept, one file per concept in Russian (`.md`)
   and one in English (`.en.md`), 227 of each.
